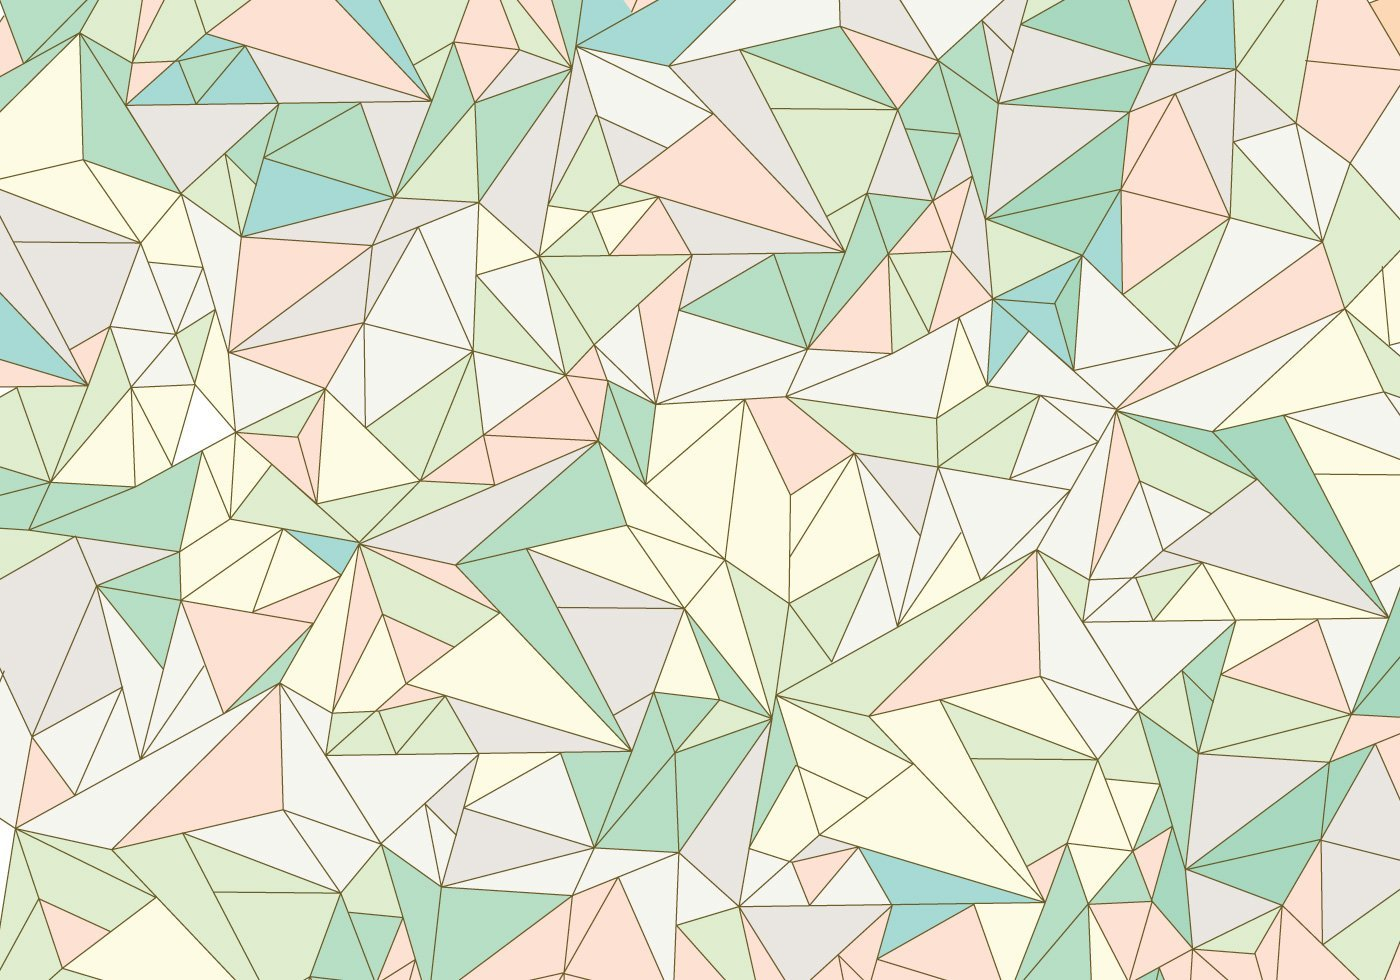
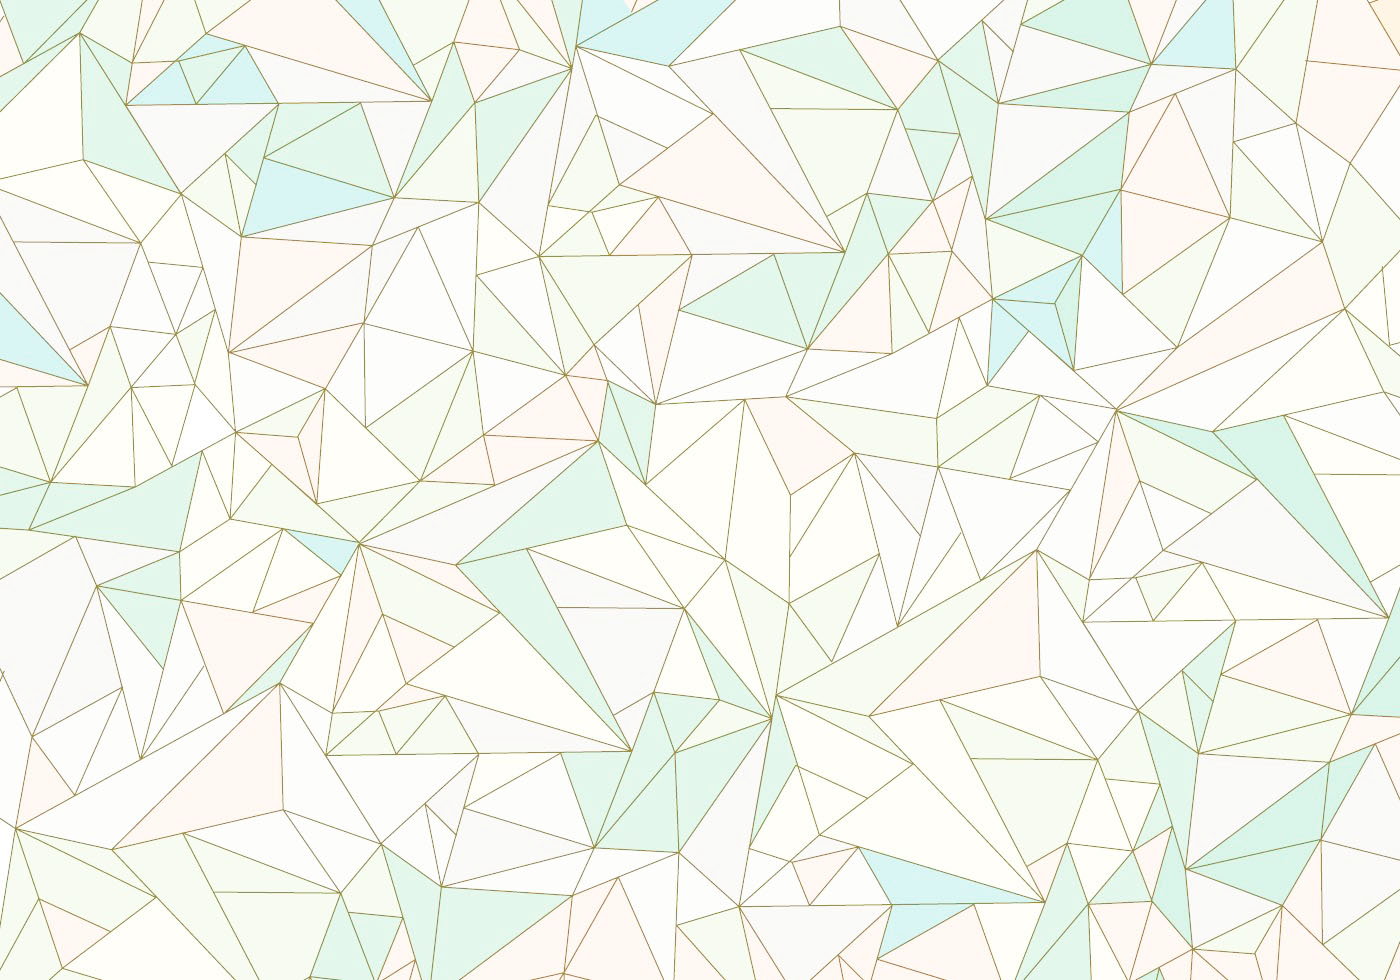
the end

diff --git a/cards/templates/cards/base.html b/cards/templates/cards/base.html
@@ -18,7 +18,8 @@
     <title>Tasks | {% block title %}HOME{% endblock %}</title>
     <style>
    body {
-    background: #E0FFFF url({% static 'images/fon.jpg' %});
+    background: #E0FFFF url({% static 'images/fon1.jpg' %});
+
    }
   </style>
 </head>
@@ -64,8 +65,9 @@
 <style>
    h3 {
     text-align: center;
-    border: 1px solid white;
-    padding: 30px;
+    border: 10px solid;
+    border-color: transparent;
+    padding: 10px;
     background: red;
    }
   </style>

diff --git a/cards/templates/cards/card_confirm_delete.html b/cards/templates/cards/card_confirm_delete.html
@@ -5,7 +5,7 @@
 
 {% block content %}
 
-    <form method="post">{% csrf_token %}
+    <form class="container" method="post">{% csrf_token %} <br>
     <h4>Are you sure you want to delete "{{ object.text }}" card?</h4>
     <input class="btn btn-danger btn-lg" type="submit" value="Confirm">
 </form>

diff --git a/users/tests.py b/users/tests.py
@@ -2,6 +2,7 @@ from django.test import TestCase, Client
 
 # Create your tests here.
 from users import models
+from cards import models as card_models
 
 
 class SignupTestCase(TestCase):
@@ -16,12 +17,67 @@ class SignupTestCase(TestCase):
         user_data = dict(
             username=self.default_username,
             email=self.default_email,
-            password1=self.default_password,
+            password=self.default_password,
             password2=self.default_password
             )
         response = self.client.post('/users/register/', user_data)
-        pass
-        #self.assertEqual(response.status_code, 302)
-        #self.assertEqual(response.url, '/')
-        #self.assertEqual(models.User.objects.count(), 1)
-        #self.assertEqual(models.User.objects.first().username, self.default_username)
+        self.assertEqual(response.status_code, 302)
+        self.assertEqual(response.url, '/')
+        self.assertEqual(models.User.objects.count(), 1)
+        self.assertEqual(models.User.objects.first().username, self.default_username)
+
+    def test_user_unable_to_register(self):
+        user_data = dict(
+            username=self.default_username,
+            email=self.default_email,
+            password=self.default_password,
+            password2=self.default_password + '1'
+        )
+        response = self.client.post('/users/register/', user_data)
+        self.assertEqual(response.status_code, 200)
+        self.assertEqual(models.User.objects.count(), 0)
+
+    def test_user_able_to_logout(self):
+        user_data = dict(
+            username=self.default_username,
+            email=self.default_email,
+            password=self.default_password,
+            password2=self.default_password
+        )
+        self.client.post('/users/register/', user_data)
+        response = self.client.post('/users/logout/')
+        self.assertEqual(response.status_code, 302)
+        self.assertEqual(response.url, '/')
+
+    def test_user_able_to_login(self):
+        user_data = dict(
+            username=self.default_username,
+            email=self.default_email,
+            password=self.default_password,
+            password2=self.default_password
+        )
+        self.client.post('/users/register/', user_data)
+        self.client.post('/users/logout/')
+        login_data = dict(
+            username=self.default_username,
+            password=self.default_password
+        )
+        response = self.client.post('/users/login/', login_data)
+        self.assertEqual(response.status_code, 302)
+        self.assertEqual(response.url, '/')
+
+    def test_user_unable_to_login(self):
+        user_data = dict(
+            username=self.default_username,
+            email=self.default_email,
+            password=self.default_password,
+            password2=self.default_password
+        )
+        self.client.post('/users/register/', user_data)
+        self.client.post('/users/logout/')
+        login_data = dict(
+            username=self.default_username,
+            password=self.default_password + '1'
+        )
+        response = self.client.post('/users/login/', login_data)
+        self.assertEqual(response.status_code, 200)

diff --git a/cards/tests.py b/cards/tests.py
@@ -1,7 +1,5 @@
-from django.test import TestCase
+from django.test import TestCase, Client
+
 
 # Create your tests here.
-
-
-class CardsActionsTestCase:
-    pass
+from users.forms import User

diff --git a/helpdesk/settings.py b/helpdesk/settings.py
@@ -128,7 +128,7 @@ AUTH_USER_MODEL = 'users.User'
 
 LOGIN_REDIRECT_URL = '/'
 
-SESSION_TIMEOUT = 3000
+SESSION_TIMEOUT = 300
 
 MEDIA_URL = '/media/'
 
